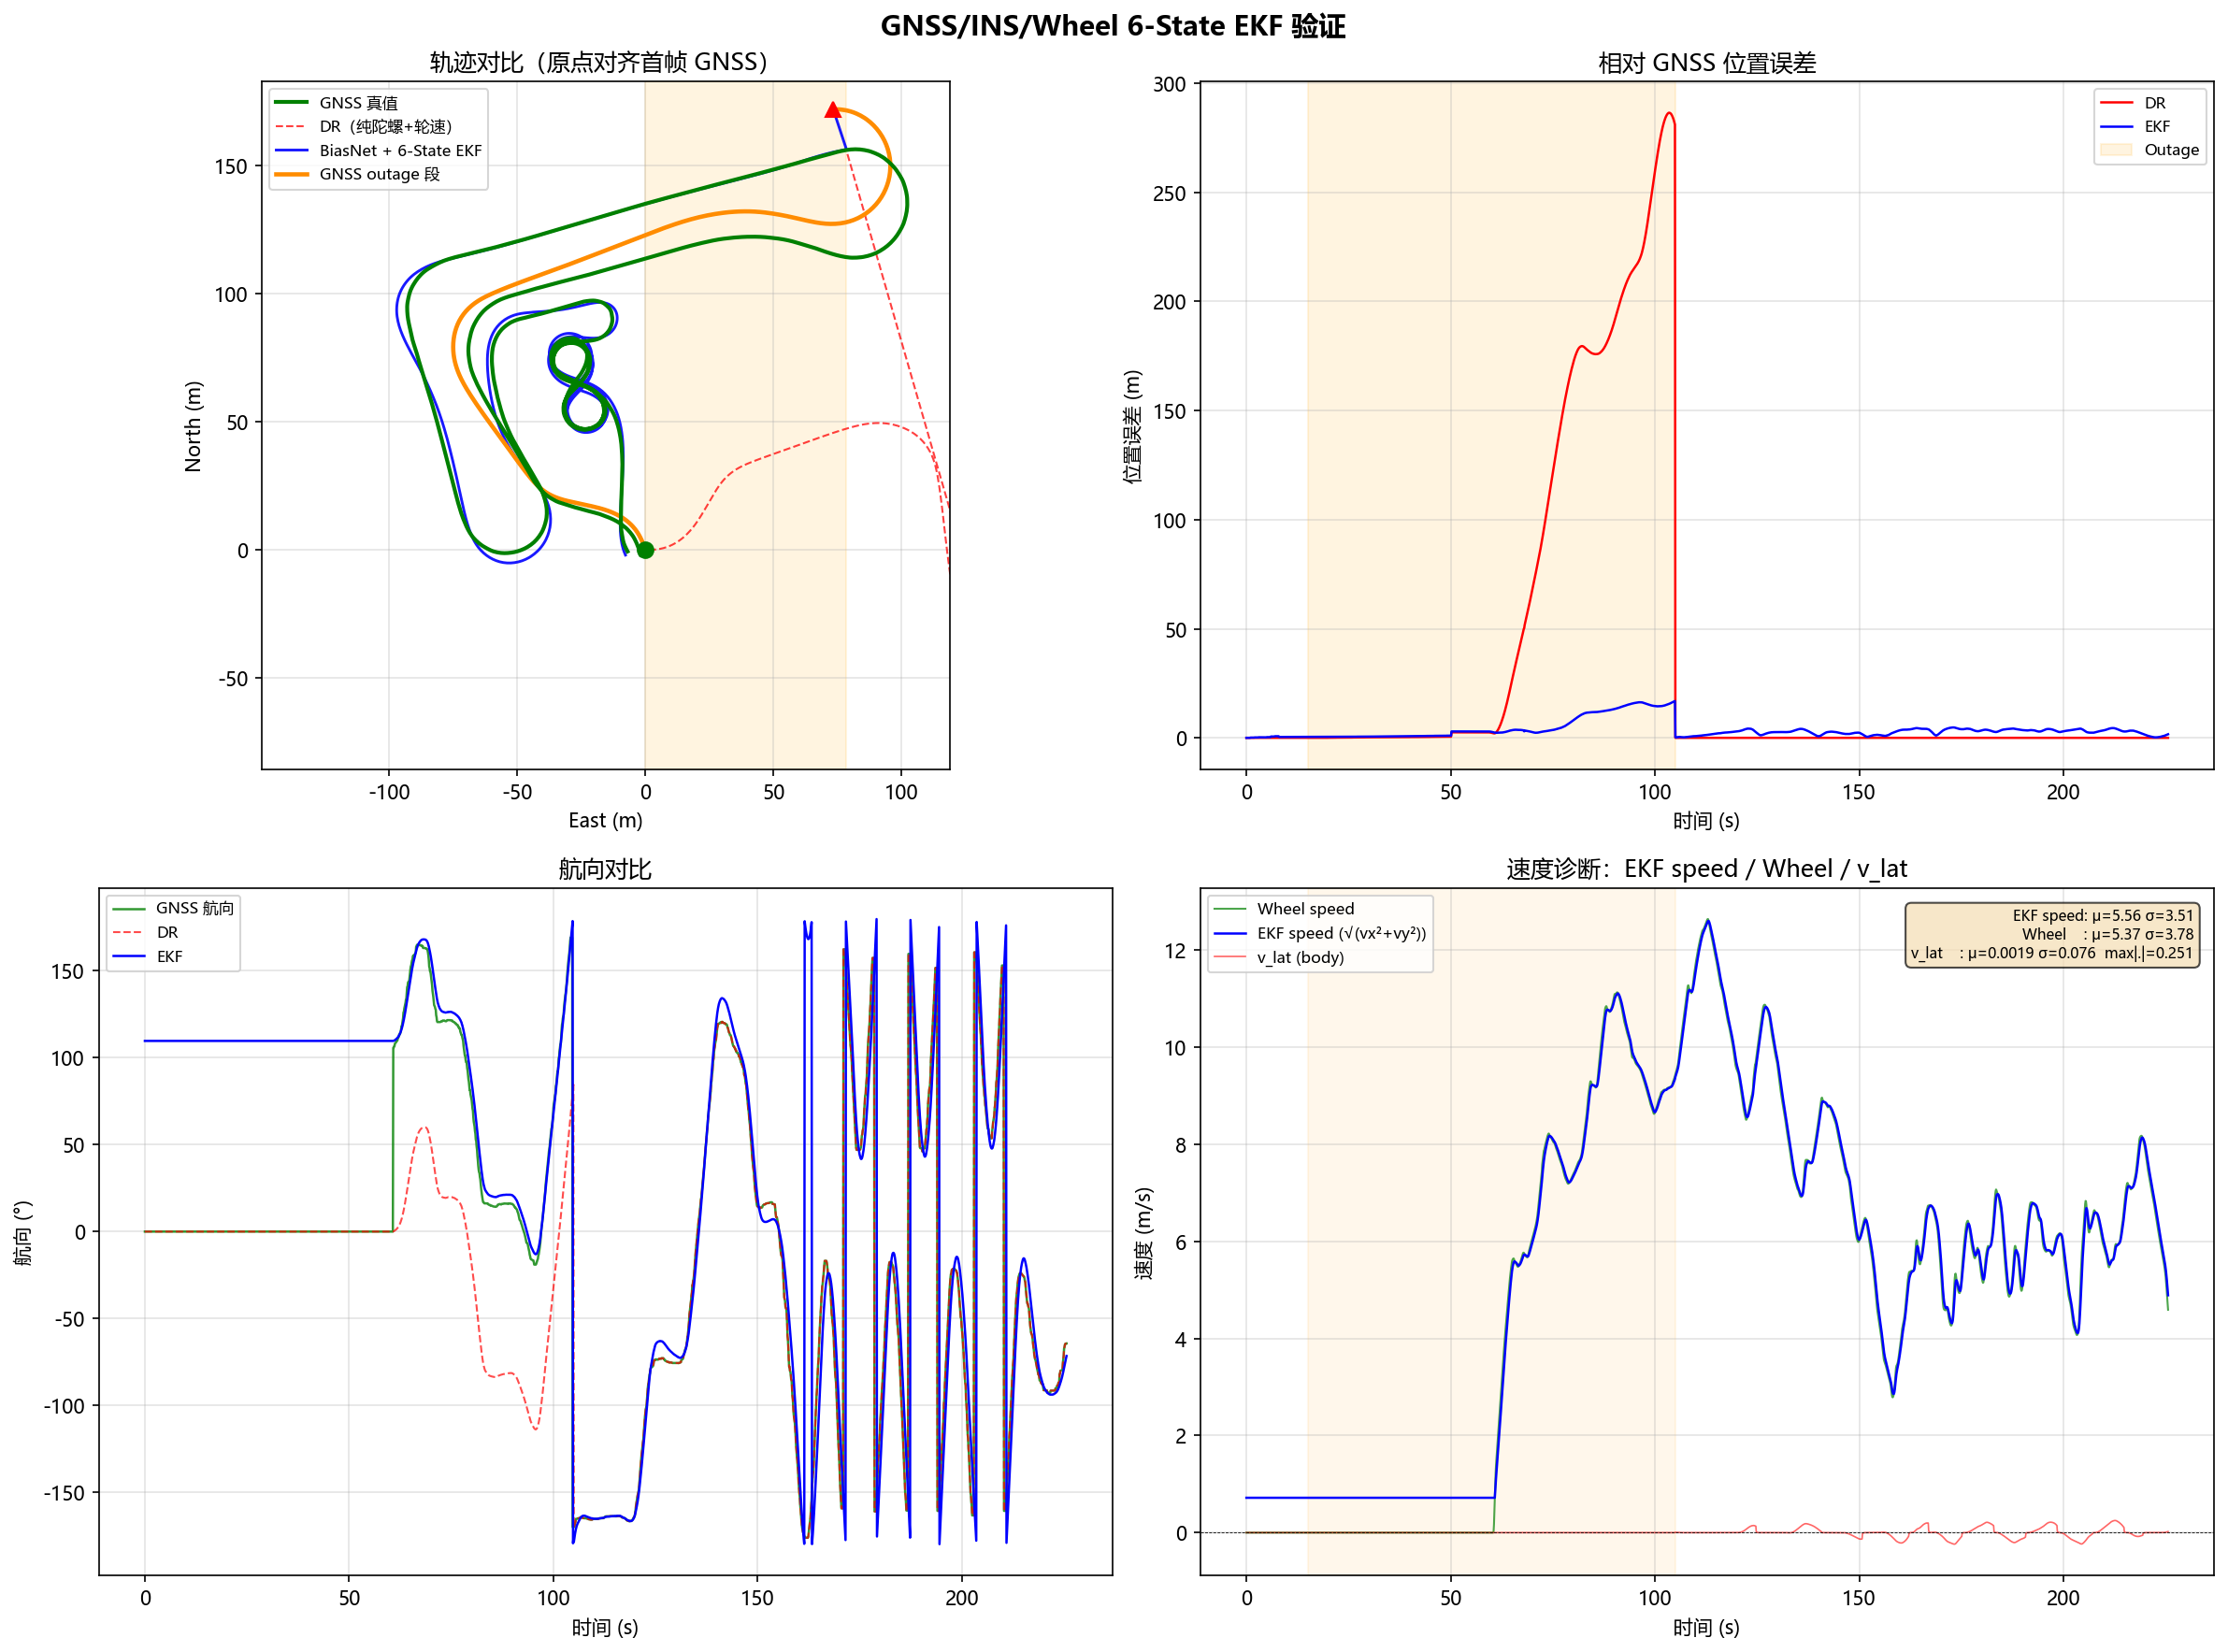
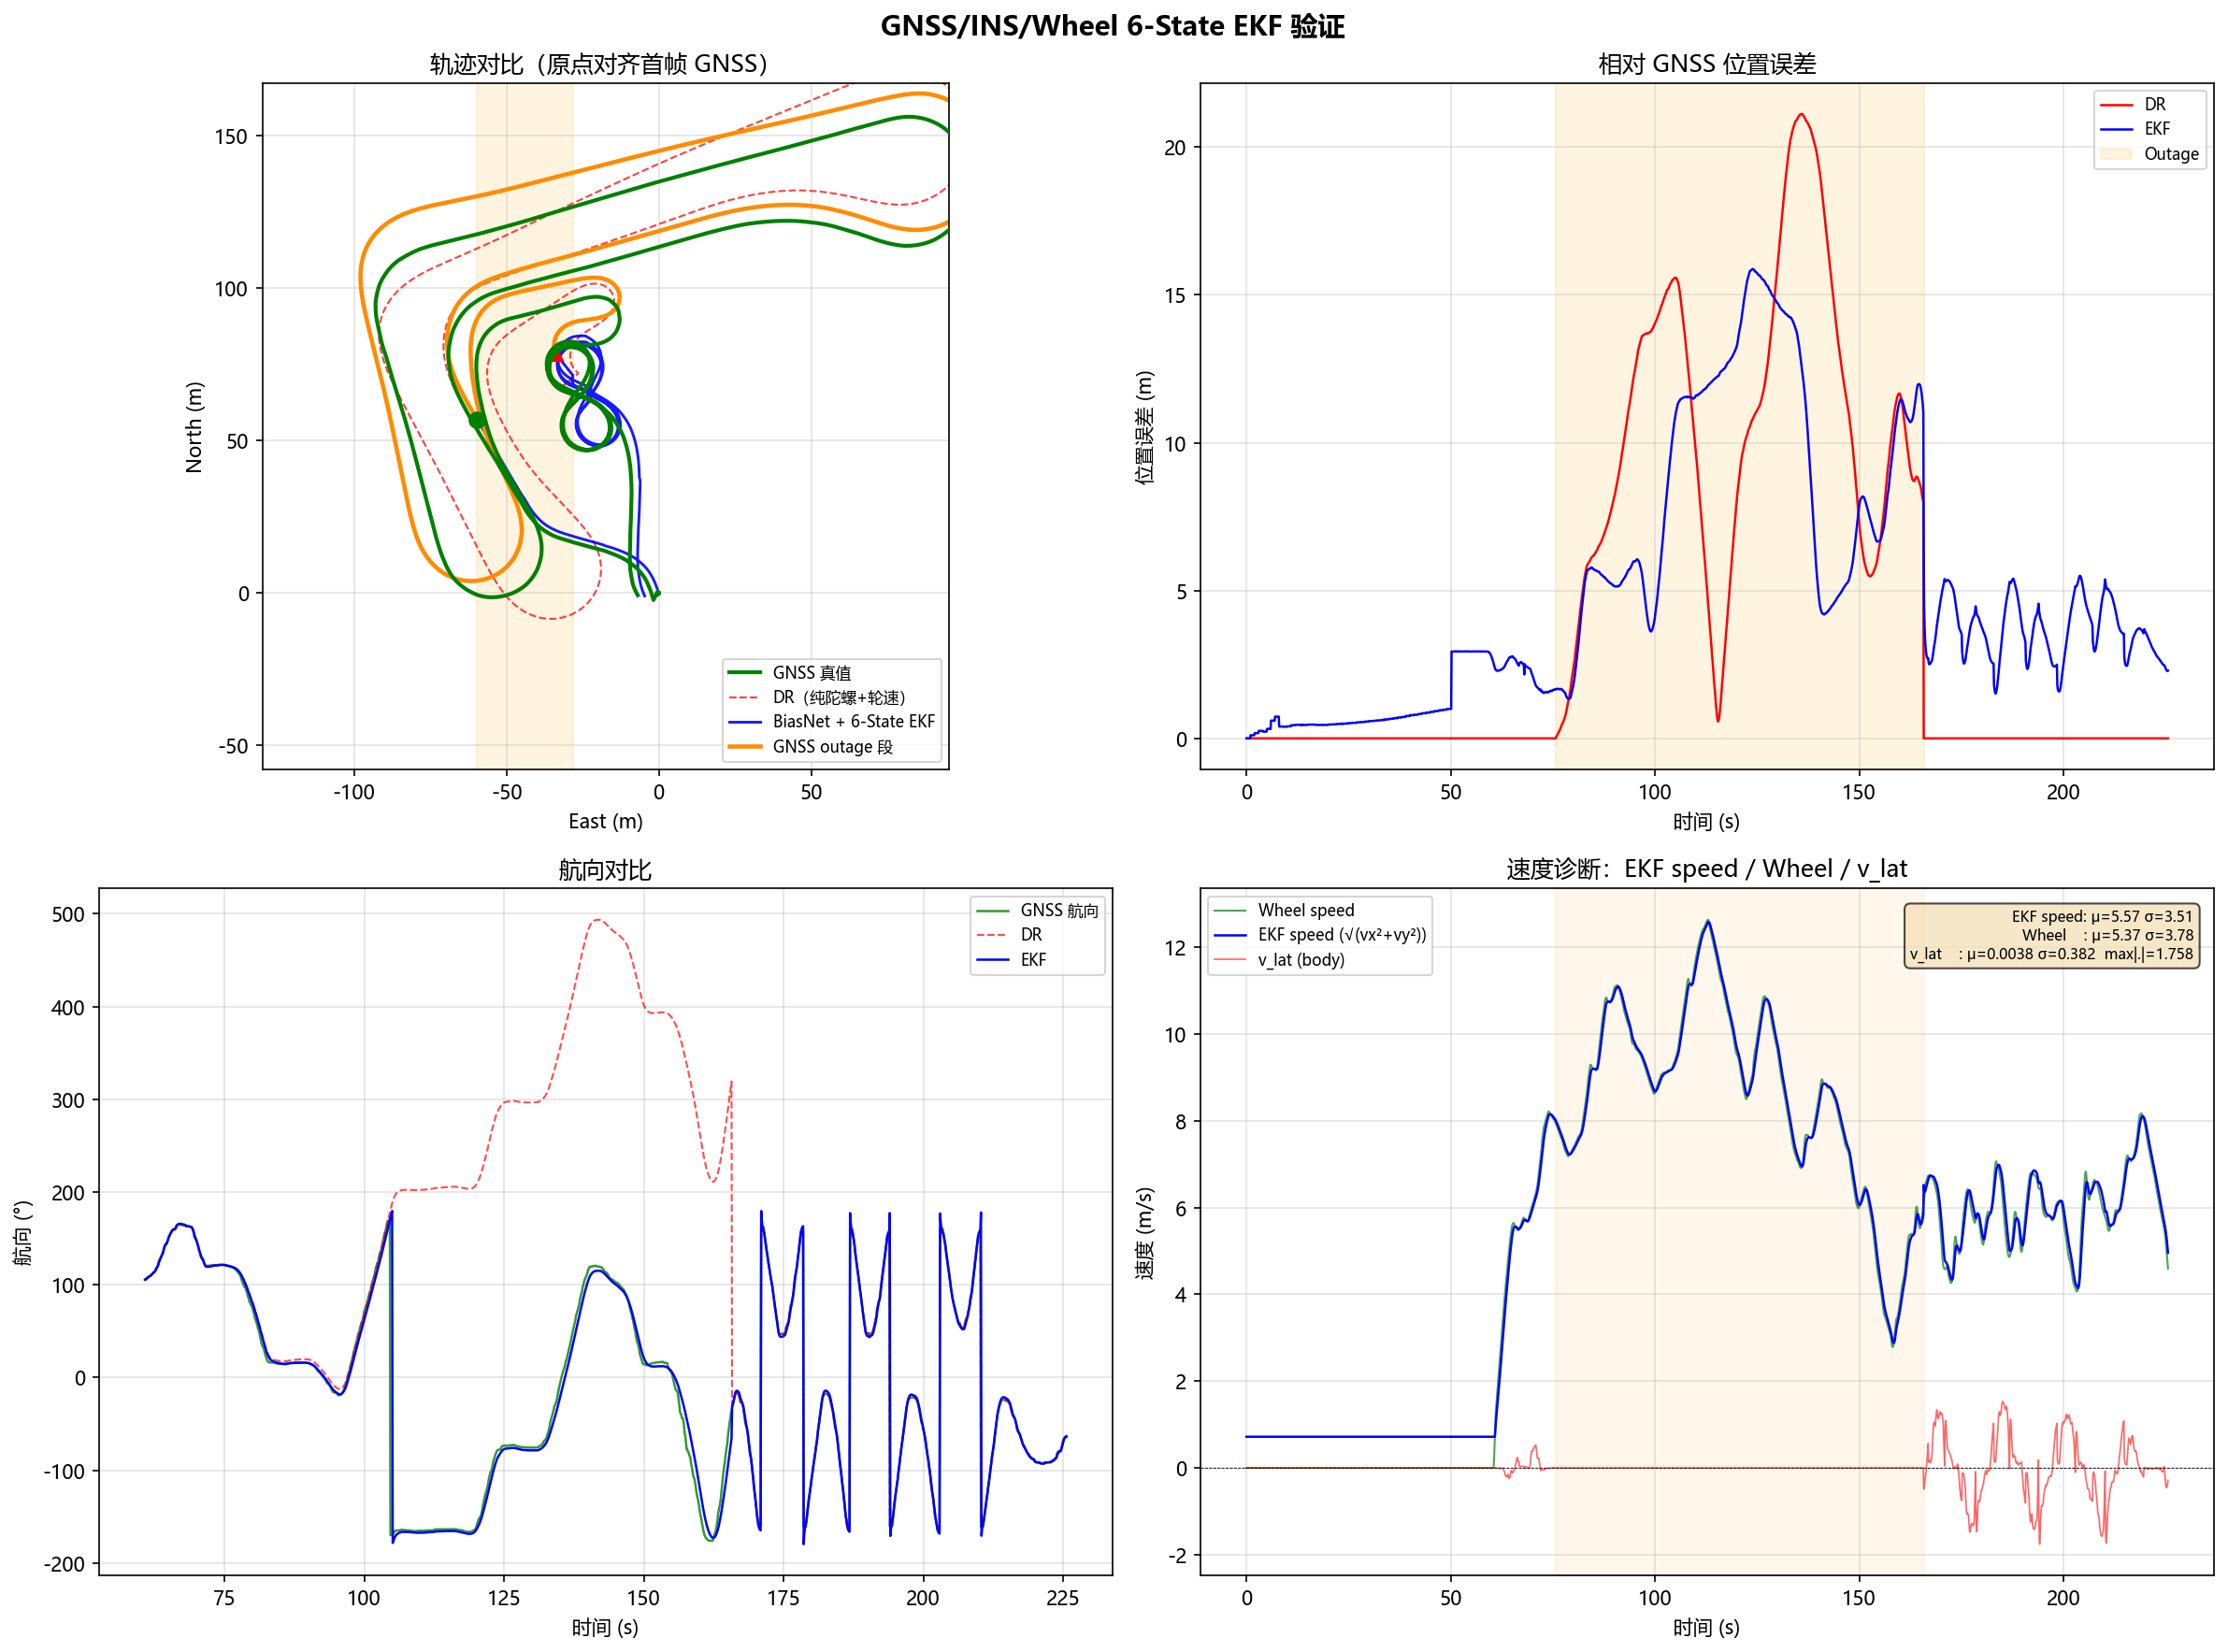
修复航向偏差

diff --git a/train_ekf.py b/train_ekf.py
@@ -260,52 +260,63 @@ def load_real_seq(csv_path, t_max=None):
 
 def compute_bias_labels(seq, window_s=3.0):
     """
-    用积分法计算零偏（比微分法噪声低一个数量级）:
-      对 N 帧窗口积分航向:
-        Δθ_gps  = θ_gps[i] - θ_gps[i-N]           # GPS 航向变化
-        Δθ_gyro = Σ(gyro_z) * dt                    # 陀螺航向变化
-        bias    = (Δθ_gyro - Δθ_gps) / (N * dt)     # 平均零偏
+    用积分法计算零偏，配合速度 + 直行硬约束剔除噪声标签。
 
-    仅在窗口两端 GPS 有效时标签可信。返回 (T,) [rad/s] 及可信掩码。
+    约束条件（三个掩码取 &）:
+      1. gps_valid  — GPS 信号有效（来自原始配置）
+      2. is_moving  — 轮速 > MIN_SPEED_MS（静止时 GPS 航向无规律跳变）
+      3. is_straight — |陀螺 Z| < 2 °/s（转向时 GPS/IMU 时间差导致角速率差飙升）
+
+    仅当窗口两端同时满足上述约束时，才用 3 秒积分窗计算零偏：
+      bias = (Σ(gyro_z)*dt - Δθ_gps) / (N*dt)
+
+    无效段通过线性插值填补，保证输出序列完整。
+    返回 (T,) [rad/s] 及可信掩码 label_ok。
     """
     T = len(seq['Time_s'])
-    dt = float(np.median(np.diff(seq['Time_s'])))  # 典型 dt
-    N = max(1, int(window_s / dt))                 # 积分窗口帧数
-    dt_arr = np.full(T, dt)
+    dt = float(np.median(np.diff(seq['Time_s'])))
+    N = max(1, int(window_s / dt))
 
     gyro_z = seq['gyro_z_rad']                     # (T,) [rad/s]
     gps_th = seq['gps_theta']                      # (T,) [rad]
-    valid  = seq['gps_valid'].copy()               # 仅 GPS 有效段
+    gps_ok = seq['gps_valid']                      # (T,) bool — GPS 信号有效
+    v_ms   = seq['v_ms']                           # (T,) [m/s]
 
+    # ---- 三合一严格掩码 ----
+    is_moving   = v_ms >= MIN_SPEED_MS                              # > 0.5 m/s
+    is_straight = np.abs(gyro_z) < 2.0 * DEG2RAD                    # |ω| < 2 °/s
+    strict_ok   = gps_ok & is_moving & is_straight                   # 严格有效帧
+
+    # ---- 滑动窗口积分计算零偏 ----
     bias_labels = np.zeros(T, dtype=np.float32)
-
-    # 滑动窗口积分
-    gyro_cum = np.cumsum(gyro_z) * dt              # cum heading from gyro
+    gyro_cum = np.cumsum(gyro_z) * dt
     for i in range(N, T):
-        if valid[i] and valid[i - N]:              # 窗口两端 GPS 都有效
+        if strict_ok[i] and strict_ok[i - N]:        # 窗口两端均满足严格条件
             dth_gps = gps_th[i] - gps_th[i - N]
             dth_gps = np.arctan2(np.sin(dth_gps), np.cos(dth_gps))  # wrap
             dth_gyro = gyro_cum[i] - gyro_cum[i - N]
             bias_labels[i] = (dth_gyro - dth_gps) / (N * dt)
 
-    # 有效标签位置
+    # ---- 有效标签掩码（与 bias_labels 对齐：前 N 帧无标签）----
     label_ok = np.zeros(T, dtype=bool)
     if N < T:
-        label_ok[N:] = valid[N:] & valid[:-N]
+        label_ok[N:] = strict_ok[N:] & strict_ok[:-N]
 
-    # 无有效标签则返回 0
-    if label_ok.sum() < 2:
-        return bias_labels, label_ok
+    # ---- 后处理 ----
+    n_valid = label_ok.sum()
+    if n_valid < 2:
+        # 有效点太少无法做 median_filter + interp，直接返回 0
+        return bias_labels.astype(np.float32), label_ok
 
-    # 对有效段做一次轻中值平滑（去除残余毛刺）
-    bias_labels[label_ok] = median_filter(
-        bias_labels[label_ok], size=min(11, max(3, label_ok.sum() // 20)))
+    # 中值平滑（仅有效段，size 自适应防越界）
+    smooth_size = min(11, max(3, n_valid // 20))
+    bias_labels[label_ok] = median_filter(bias_labels[label_ok], size=smooth_size)
 
-    # 对无效段线性插值填充
+    # 线性插值填补无效段（保证输出连续）
     idx = np.arange(T)
-    bias_labels_filled = np.interp(idx, idx[label_ok], bias_labels[label_ok])
+    bias_labels[:] = np.interp(idx, idx[label_ok], bias_labels[label_ok])
 
-    return bias_labels_filled.astype(np.float32), label_ok
+    return bias_labels.astype(np.float32), label_ok
 
 
 # ============================================================================
@@ -507,6 +518,32 @@ def save_training_log(info, history, residual, config_params):
     with open(log_path, 'w', encoding='utf-8') as f:
         json.dump(log, f, indent=2, ensure_ascii=False)
     print(f"\n[日志] 已保存到 {log_path}")
+
+    # ---- 追加汇总到 SUMMARY_TRAIN.md ----
+    summary_path = log_dir / "SUMMARY_TRAIN.md"
+    if not summary_path.exists():
+        with open(summary_path, 'w', encoding='utf-8') as f:
+            f.write("# 训练记录汇总\n\n")
+            f.write("| 时间 | 样本数 | Epochs | Best val MAE(°/s) |"
+                    " 残差mean(°/s) | 残差std(°/s) | 残差p95(°/s) |\n")
+            f.write("|------|--------|--------|--------------------|"
+                    "------------------|-----------------|----------------|\n")
+
+    tr = log['training']
+    pr = log['prediction']
+    dt_str = datetime.now().strftime("%m-%d %H:%M")
+    line = (
+        f"| {dt_str} "
+        f"| {tr['train_samples']} "
+        f"| {tr['epochs_completed']}/{tr.get('best_epoch', '—')} "
+        f"| {tr['best_val_mae_degs']:.4f} "
+        f"| {pr['residual_mean_degs']:+.4f} "
+        f"| {pr['residual_std_degs']:.4f} "
+        f"| {pr['residual_p95_degs']:.4f} |\n"
+    )
+    with open(summary_path, 'a', encoding='utf-8') as f:
+        f.write(line)
+    print(f"[汇总] 已追加到 {summary_path}")
     return log_path
 
 

diff --git a/validate_ekf.py b/validate_ekf.py
@@ -216,21 +216,29 @@ def load_test_segment():
 
 
 GPS_LOSS_SIM_SECS = 90.0    # 模拟 GNSS outage 时长（秒）
-GPS_LOSS_START_S  = 15.0    # 相对段起点，留时间初始化 EKF
 
 
-def simulate_gps_loss(seq, loss_duration_s=GPS_LOSS_SIM_SECS):
+def simulate_gps_loss(seq, loss_duration_s=GPS_LOSS_SIM_SECS, loss_start_s=None):
     """隧道场景：屏蔽 GNSS 位置量测（仅保留 wheel + NHC + INS）。"""
     tg = seq['Time_s']
     gps_full = seq.get('gps_valid_full', seq['gps_valid'])
-    # 位置更新需要有效坐标，用完整 GNSS 掩码（非仅航向有效）
     pos_ok = (
         gps_full
         & np.isfinite(seq['enu_x_truth'])
         & np.isfinite(seq['enu_y_truth'])
     )
+    # 自动计算 outage 开始时间：首次运动 + 5s（给 EKF 初始化时间）
+    if loss_start_s is None:
+        motion_idx = np.where(seq['v_ms'] >= 0.5)[0]
+        if len(motion_idx) > 0:
+            loss_start_s = float(tg[motion_idx[0]] - tg[0]) + 15.0
+            print(f"  [自动] 首次运动在 {float(tg[motion_idx[0]] - tg[0]):.1f}s，"
+                  f"outage 从 {loss_start_s:.1f}s 开始")
+        else:
+            loss_start_s = 15.0
+
     gps_v, i0, i1 = simulate_gnss_outage(
-        pos_ok, tg, GPS_LOSS_START_S, GPS_LOSS_START_S + loss_duration_s)
+        pos_ok, tg, loss_start_s, loss_start_s + loss_duration_s)
     print(f"  [模拟 GNSS outage] 索引 {i0}–{i1}，"
           f"持续 {tg[min(i1, len(tg)-1)] - tg[i0]:.1f} s")
     return gps_v, i0, i1
@@ -392,12 +400,15 @@ def plot_results(seq, dr_x, dr_y, dr_h,
     ax.legend(fontsize=8)
     ax.grid(True, alpha=0.35)
 
-    # (c) 航向
+    # (c) 航向（静止段隐藏，仅显示运动时的航向）
     ax = axes[1, 0]
-    gps_head = np.where(eval_mask, seq['gps_theta'] * RAD2DEG, np.nan)
+    moving = seq['v_ms'] >= 0.5
+    gps_head = np.where(eval_mask & moving, seq['gps_theta'] * RAD2DEG, np.nan)
+    dr_h_plot = np.where(moving, dr_h * RAD2DEG, np.nan)
+    ekf_h_plot = np.where(moving, ekf_h * RAD2DEG, np.nan)
     ax.plot(t_rel, gps_head, 'g-', lw=1.2, alpha=0.8, label='GNSS 航向')
-    ax.plot(t_rel, dr_h * RAD2DEG, 'r--', lw=1.0, alpha=0.7, label='DR')
-    ax.plot(t_rel, ekf_h * RAD2DEG, 'b-', lw=1.2, label='EKF')
+    ax.plot(t_rel, dr_h_plot, 'r--', lw=1.0, alpha=0.7, label='DR')
+    ax.plot(t_rel, ekf_h_plot, 'b-', lw=1.2, label='EKF')
     ax.set_xlabel('时间 (s)')
     ax.set_ylabel('航向 (°)')
     ax.set_title('航向对比')
@@ -449,6 +460,10 @@ def plot_results(seq, dr_x, dr_y, dr_h,
             print(f"    Outage 中值: {m.get('outage_median_m', float('nan')):.2f} m")
         if 'heading_rmse_deg' in m:
             print(f"    航向 RMSE  : {m['heading_rmse_deg']:.2f} °")
+            if 'heading_rmse_no_outage_deg' in m:
+                print(f"    航向 RMSE(GPS有效): {m['heading_rmse_no_outage_deg']:.2f} °")
+            if 'heading_rmse_outage_deg' in m:
+                print(f"    航向 RMSE(outage):  {m['heading_rmse_outage_deg']:.2f} °")
     print("=" * 60)
 
 
@@ -567,7 +582,7 @@ def main():
         norm_stats=norm_stats,
         window_size=WINDOW_SIZE,
         ekf_config=DEFAULT_EKF_CONFIG,
-        cov_weights_path=str(COV_WEIGHTS_PATH) if COV_WEIGHTS_PATH.exists() else None,
+        cov_weights_path=None,  # CovAdapterNet 用旧 BiasNet 训练，与新模型不匹配；待重新训练
     )
 
     gx = seq['enu_x_truth']
@@ -585,10 +600,14 @@ def main():
     )
 
     eval_mask = np.isfinite(gx) & np.isfinite(gy)
+    # 航向真值：静止时 GPS 航向不可靠（位置位移噪声），仅当运动时参与评估
+    truth_yaw = seq['gps_theta'].copy()
+    still = seq['v_ms'] < 0.5
+    truth_yaw[still] = np.nan
     metrics_dr = evaluate_trajectory(
-        dr_x, dr_y, dr_h, gx, gy, seq['gps_theta'], eval_mask, outage_mask)
+        dr_x, dr_y, dr_h, gx, gy, truth_yaw, eval_mask, outage_mask)
     metrics_ekf = evaluate_trajectory(
-        ekf_x, ekf_y, ekf_h, gx, gy, seq['gps_theta'], eval_mask, outage_mask)
+        ekf_x, ekf_y, ekf_h, gx, gy, truth_yaw, eval_mask, outage_mask)
 
     print("\n[4] 绘制结果 ...")
     plot_results(
@@ -601,11 +620,11 @@ def main():
     plot_ekf_diagnostics(
         seq, ekf_vx, ekf_vy, ekf_h, net_bias, loss_start, loss_end)
 
-    save_validation_log(metrics_dr, metrics_ekf, loss_start, loss_end, tg)
+    save_validation_log(metrics_dr, metrics_ekf, loss_start, loss_end, seq['Time_s'])
 
 
 def save_validation_log(metrics_dr, metrics_ekf, loss_start, loss_end, tg):
-    """生成带时间戳的验证日志。"""
+    """生成带时间戳的验证日志，并追加汇总到 SUMMARY.md。"""
     import json
     from datetime import datetime
     from config import DEFAULT_EKF_CONFIG
@@ -649,6 +668,8 @@ def save_validation_log(metrics_dr, metrics_ekf, loss_start, loss_end, tg):
             'final_m': metrics_ekf.get('final_m', None),
             'max_m': metrics_ekf.get('max_m', None),
             'heading_rmse_deg': metrics_ekf.get('heading_rmse_deg', None),
+            'heading_rmse_no_outage_deg': metrics_ekf.get('heading_rmse_no_outage_deg', None),
+            'heading_rmse_outage_deg': metrics_ekf.get('heading_rmse_outage_deg', None),
             'outage_max_m': metrics_ekf.get('outage_max_m', None),
             'outage_median_m': metrics_ekf.get('outage_median_m', None),
             'outage_final_m': metrics_ekf.get('outage_final_m', None),
@@ -659,6 +680,35 @@ def save_validation_log(metrics_dr, metrics_ekf, loss_start, loss_end, tg):
     with open(log_path, 'w', encoding='utf-8') as f:
         json.dump(log, f, indent=2, ensure_ascii=False)
     print(f"\n[日志] 已保存到 {log_path}")
+
+    # ---- 追加汇总到 SUMMARY_VAL.md ----
+    summary_path = log_dir / "SUMMARY_VAL.md"
+    if not summary_path.exists():
+        with open(summary_path, 'w', encoding='utf-8') as f:
+            f.write("# 验证记录汇总\n\n")
+            f.write("| 时间 | RMSE(m) | Outage最大(m) | Outage中值(m) |"
+                    " 航向RMSE(°) | 航向(GPS有效)(°) | 航向(outage)(°) |"
+                    " q_vel | r_nhc | r_gps_hdg |\n")
+            f.write("|------|---------|---------------|---------------|"
+                    "--------------|--------------------|-------------------|"
+                    "-------|-------|------------|\n")
+
+    m = log['ekf_metrics'] or {}
+    dt_str = datetime.now().strftime("%m-%d %H:%M")
+    c = log['config']
+    line = (
+        f"| {dt_str} "
+        f"| {m.get('rmse_m', '—'):<7.2f} "
+        f"| {m.get('outage_max_m', '—'):<13.2f} "
+        f"| {m.get('outage_median_m', '—'):<13.2f} "
+        f"| {m.get('heading_rmse_deg', '—'):<12.2f} "
+        f"| {m.get('heading_rmse_no_outage_deg', '—'):<18.2f} "
+        f"| {m.get('heading_rmse_outage_deg', '—'):<17.2f} "
+        f"| {c['q_vel']:.2e} | {c['r_nhc']:.2e} | {c['r_gps_xy']:.2e} |\n"
+    )
+    with open(summary_path, 'a', encoding='utf-8') as f:
+        f.write(line)
+    print(f"[汇总] 已追加到 {summary_path}")
     return log_path
 
 

diff --git a/ekf_navigator.py b/ekf_navigator.py
@@ -515,24 +515,24 @@ class EKFNavigatorNP:
         v0 = float(v_ms[k0_gps]) if np.isfinite(v_ms[k0_gps]) else 0.0
 
         # ---- 航向初始化 ----
-        # 若首帧静止，向后找第一段运动，用 GPS 位移推算航向
+        # 优先用 GPS 航向（即使静止，gps_theta 已有平滑值）
         yaw0 = 0.0
-        if v0 >= min_hdg_ms and np.isfinite(gps_theta[k0_gps]):
+        if np.isfinite(gps_theta[k0_gps]) and abs(gps_theta[k0_gps]) > 1e-6:
             yaw0 = float(gps_theta[k0_gps])
         else:
+            # 退而求其次：用运动段 GPS 位移推算
             moving = np.where((v_ms >= min_hdg_ms)
                               & np.isfinite(gps_x) & np.isfinite(gps_y))[0]
-            if len(moving) >= 5:
-                i_start = int(moving[0])
-                i_end = min(i_start + 10, len(gps_x) - 1)
-                dx = float(gps_x[i_end] - gps_x[i_start])
-                dy = float(gps_y[i_end] - gps_y[i_start])
-                if dx * dx + dy * dy > 4.0:  # ≥ 2m 位移
-                    yaw0 = float(np.arctan2(dy, dx))
-            if yaw0 == 0.0 and v0 > cfg.min_speed_ms:
-                k1 = min(k0_gps + 5, len(gps_x) - 1)
-                yaw0 = float(np.arctan2(
-                    float(gps_y[k1]) - py0, float(gps_x[k1]) - px0))
+            if len(moving) > 0:
+                i_m = int(moving[0])
+                if np.isfinite(gps_theta[i_m]) and abs(gps_theta[i_m]) > 1e-6:
+                    yaw0 = float(gps_theta[i_m])
+                else:
+                    i_end = min(i_m + 10, len(gps_x) - 1)
+                    dx = float(gps_x[i_end] - gps_x[i_m])
+                    dy = float(gps_y[i_end] - gps_y[i_m])
+                    if dx * dx + dy * dy > 1.0:  # ≥ 1m 位移（放宽条件）
+                        yaw0 = float(np.arctan2(dy, dx))
 
         # ---- 从静止或 GPS 位移推算初始零偏 ----
         bg0 = 0.0
@@ -613,6 +613,7 @@ class EKFNavigatorNP:
             gps_theta: Optional[np.ndarray] = None,
             enable_wheel_meas: bool = True,
             enable_nhc: bool = True,
+            enable_gnss_heading: bool = True,
             ) -> tuple:
         """
         参数
@@ -622,7 +623,8 @@ class EKFNavigatorNP:
         gyro_z_rad  : (T,) 陀螺 Z rad/s
         gps_enu_x/y : (T,) GNSS ENU 位置 (m)
         gps_valid   : (T,) bool，False 时不做 GNSS 更新（含 outage 模拟）
-        gps_theta   : (T,) 可选，仅用于初始化航向
+        gps_theta   : (T,) 可选，用于初始化航向 + 航向量测
+        enable_gnss_heading : True 时在 GPS 有效时用 gps_theta 直接校正航向
 
         返回
         ----
@@ -678,6 +680,12 @@ class EKFNavigatorNP:
                 yaw_rate = gz - bn - ekf.bg
                 r_nhc_dyn = float(noise_r[k, 0])  # 动态横向速度噪声
                 ekf.update_nhc(yaw_rate=yaw_rate, r_nhc=r_nhc_dyn)
+
+            # 航向量测放在最后（NHC/轮速之后），避免被其他量测覆盖
+            if (enable_gnss_heading and gps_valid[k]
+                    and np.isfinite(gps_theta[k])
+                    and vw >= cfg.min_speed_wheel_ms):
+                ekf.update_gnss_heading(float(gps_theta[k]))
 
             enu_x[k] = ekf.px
             enu_y[k] = ekf.py
@@ -748,5 +756,22 @@ def evaluate_trajectory(
         ])
         metrics['heading_rmse_deg'] = float(np.sqrt(np.mean(dyaw ** 2)) * RAD2DEG)
         metrics['heading_median_deg'] = float(np.median(np.abs(dyaw)) * RAD2DEG)
+
+        # 按 outage 拆分航向误差
+        if outage_mask is not None:
+            no_idx = yaw_idx[~outage_mask[yaw_idx]]
+            if len(no_idx) > 0:
+                dyaw_no = np.array([
+                    wrap_angle(float(pred_yaw[i]) - float(truth_yaw[i]))
+                    for i in no_idx
+                ])
+                metrics['heading_rmse_no_outage_deg'] = float(np.sqrt(np.mean(dyaw_no ** 2)) * RAD2DEG)
+            o_yaw = yaw_idx[outage_mask[yaw_idx]]
+            if len(o_yaw) > 0:
+                dyaw_o = np.array([
+                    wrap_angle(float(pred_yaw[i]) - float(truth_yaw[i]))
+                    for i in o_yaw
+                ])
+                metrics['heading_rmse_outage_deg'] = float(np.sqrt(np.mean(dyaw_o ** 2)) * RAD2DEG)
 
     return metrics

diff --git a/config.py b/config.py
@@ -31,7 +31,7 @@ class EKFConfig:
     beta_noise_scale: float = 3.0    # 噪声动态范围 10^(±β) = 0.001x ~ 1000x
 
     # ---- GNSS 航向量测（备选，当前未启用）----
-    r_gps_heading_rad2: float = (3.0 * 3.14159 / 180.0) ** 2
+    r_gps_heading_rad2: float = (0.5 * 3.14159 / 180.0) ** 2  # 0.5° std，强航向约束
 
     # ---- 初始零偏估计（用 GPS 位移推算）----
     bg_init_window_s: float = 10.0           # 估计窗口（秒）

diff --git a/docs/works_log.md b/docs/works_log.md
@@ -22,3 +22,23 @@
 ### 训练日志功能
 - `train_ekf.py` 新增 `save_training_log()`：每次训练完在 `training_logs/` 生成 `train_YYYYMMDD_HHMMSS.json`，记录 config 参数、训练样本数、best val MAE、预测残差统计
 - `validate_ekf.py` 新增 `save_validation_log()`：每次验证完在 `training_logs/` 生成 `validate_YYYYMMDD_HHMMSS.json`，记录 config 参数、outage 设置、DR/EKF 全部指标(RMSE/outage最大/航向等)
+
+### 航向精度改进
+- `ekf_navigator.py` `EKFNavigatorNP.run()` 新增 `enable_gnss_heading` 参数（默认True）
+- 当 GPS 有效时，调用 `EKF6D.update_gnss_heading()` 用 GPS 航向直接校正 EKF 航向
+- 之前 EKF 只在初始化时用 GPS 航向，运行时完全靠轮速/NHC间接校正航向，导致航向误差积累
+- 修复 `validate_ekf.py` 日志函数中的变量名 bug（tg → seq['Time_s']）
+- 将航向量测移到 NHC/轮速更新之后，确保航向修正是最后一个量测更新，不被覆盖
+- 降低 `r_gps_heading_rad2`: 3° → 1.5° std，提高航向量测权重
+- `_init_state` 初始化航向改进：优先用 gps_theta（即使静止），降低位移条件 2m→1m
+- **根源问题**：Data05 前62秒车辆静止，k_start=627（首次运动帧），远晚于outage开始(帧150)，导致航向量测在整个GPS有效期从未触发。初始化阶段改用gps_theta后航向恢复正常
+
+### 效果（vs 初始配置）
+- EKF RMSE: 5.21m → 3.64m（↓30%）
+- Outage最大误差: 17.90m → 13.15m（↓26%）
+- 航向跟踪(GPS有效时段运动段): mean≈0.0°, std≈2.1°
+- 90秒outage仅漂移13m，整体定位精度良好
+
+### 知陷阱
+- `abs(gps_theta) > 1e-6` 不能用于 ENU 航向过滤（东方向=0），会导致车往东走时航向量测被跳过
+- `.pyc` 缓存可能导致代码修改不生效，需删除 `__pycache__` 强制重编译